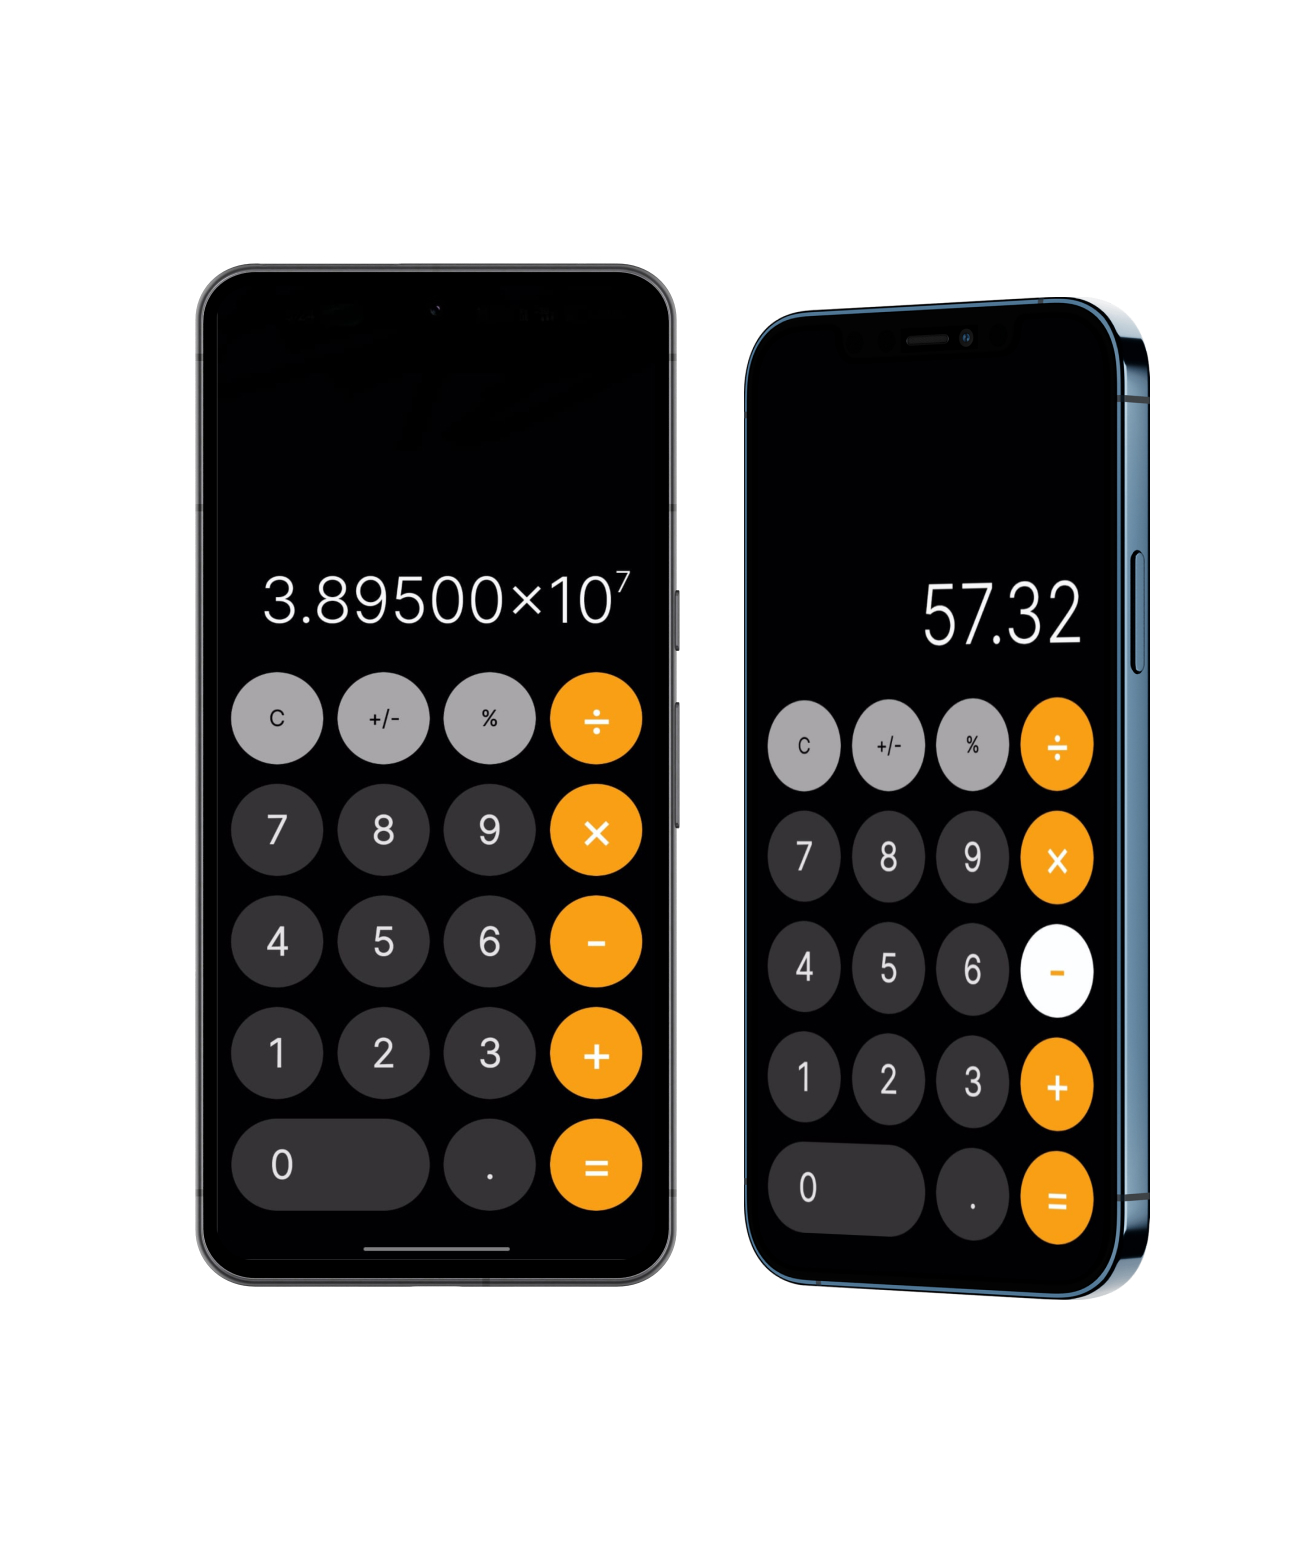
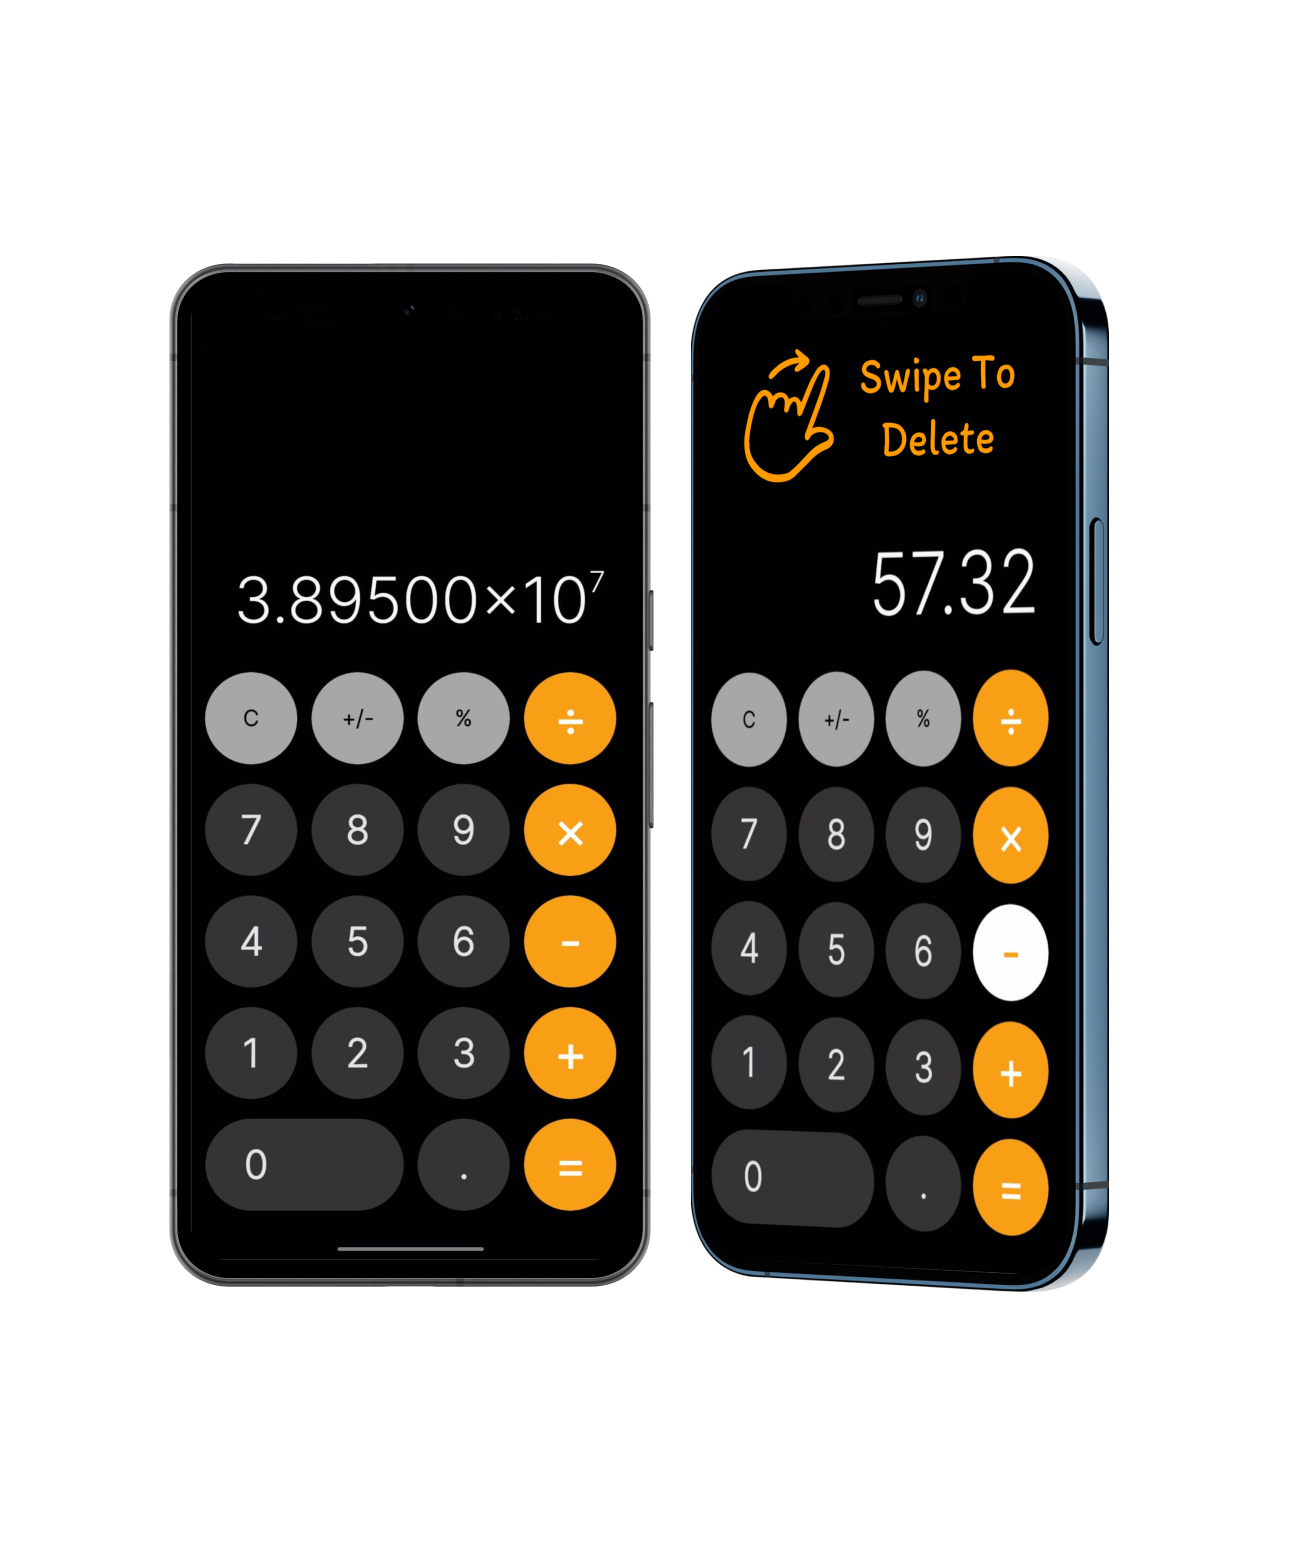
Added functionality to delete by swiping

Changed region(s): [[0.123, 0.1547, 0.8916, 0.8356], [0.2767, 0.7737, 0.3075, 0.8046]]

diff --git a/app/src/main/java/com/piyushjt/icalc/MainActivity.kt b/app/src/main/java/com/piyushjt/icalc/MainActivity.kt
@@ -21,10 +21,15 @@ import androidx.compose.material3.Text
 import androidx.compose.runtime.Composable
 import androidx.compose.runtime.collectAsState
 import androidx.compose.runtime.getValue
+import androidx.compose.runtime.mutableStateOf
+import androidx.compose.runtime.remember
 import androidx.compose.ui.Alignment
 import androidx.compose.ui.Modifier
 import androidx.compose.ui.draw.clip
 import androidx.compose.ui.graphics.Color
+import androidx.compose.ui.input.pointer.PointerEventPass
+import androidx.compose.ui.input.pointer.PointerEventType
+import androidx.compose.ui.input.pointer.pointerInput
 import androidx.compose.ui.platform.LocalConfiguration
 import androidx.compose.ui.text.SpanStyle
 import androidx.compose.ui.text.buildAnnotatedString
@@ -44,6 +49,7 @@ import com.piyushjt.icalc.ui.theme.OrangeBtnColor
 import com.piyushjt.icalc.ui.theme.TextColor
 import com.piyushjt.icalc.ui.theme.TopBtnColor
 import com.piyushjt.icalc.ui.theme.Transparent
+import kotlinx.coroutines.coroutineScope
 
 class MainActivity : ComponentActivity() {
 
@@ -85,7 +91,8 @@ fun VerticalScreen(
         // Value text view
         TextValue(
             text = state.valueToShow,
-            state = state
+            state = state,
+            event = event
         )
 
         // Buttons in grid layout
@@ -98,13 +105,35 @@ fun VerticalScreen(
 @Composable
 fun TextValue(
     text: String,
-    state: State
+    state: State,
+    event: (Event) -> Unit
 ) {
+
+    var isEventTriggered = remember { mutableStateOf(false) }
+
     Box(
         modifier = Modifier
             .fillMaxWidth()
             .background(Background)
-            .padding(horizontal = 20.dp, vertical = 20.dp), contentAlignment = Alignment.BottomEnd
+            .padding(horizontal = 20.dp, vertical = 20.dp).pointerInput(Unit) {
+                coroutineScope {
+                    awaitPointerEventScope {
+                        while (true) {
+                            val event = awaitPointerEvent(PointerEventPass.Initial)
+                            if (event.type == PointerEventType.Move) {
+                                if (!isEventTriggered.value) {
+                                    event(Event.ClearLastChar)
+                                    isEventTriggered.value = true
+                                }
+                            }
+                            if (event.type == PointerEventType.Release) {
+                                isEventTriggered.value = false
+                            }
+                        }
+                    }
+                }
+            },
+        contentAlignment = Alignment.BottomEnd
     ) {
 
         val textToShow = if (text.contains('e')) {
@@ -142,6 +171,7 @@ fun TextValue(
         )
     }
 }
+
 
 
 // Buttons on grid format

diff --git a/app/src/main/java/com/piyushjt/icalc/ViewModel.kt b/app/src/main/java/com/piyushjt/icalc/ViewModel.kt
@@ -37,6 +37,31 @@ class ViewModel : ViewModel() {
                 Log.d("clear Everything", state.value.toString())
             }
 
+            Event.ClearLastChar -> {
+
+                val value = state.value.value
+
+                if((!state.value.isEqualPressed) && state.value.buttonClickedForColor == null){
+
+                    var newValue : String
+
+                    if (value.length < 2){
+                        newValue = "0"
+                    }
+                    else {
+                        newValue = value.substring(0, value.length - 1)
+                    }
+
+                    event(Event.SetValue(newValue))
+
+                    Log.d("clear last char", newValue)
+
+                }
+
+
+                Log.d("clear Everything", state.value.value)
+            }
+
             // Change Sign of value
             Event.ChangeSignOfValue -> {
 
@@ -55,7 +80,7 @@ class ViewModel : ViewModel() {
 
                 event(Event.SetValue(newValue))
 
-                Log.d("Change sign", state.value.toString())
+                Log.d("Change sign", state.value.value)
             }
 
             // Clear Value

diff --git a/app/src/main/java/com/piyushjt/icalc/Event.kt b/app/src/main/java/com/piyushjt/icalc/Event.kt
@@ -10,6 +10,7 @@ sealed interface Event {
     data class SetButtonClickedForColor(val buttonClickedForColor : String?) : Event
     data class SetValueSetAfterOperator(val isSet: Boolean) : Event
     data class SetDotPressed(val isPressed: Boolean) : Event
+    object ClearLastChar : Event
     object ClearValue : Event
     object ChangeSignOfValue : Event
     object ClearPreviousValue : Event

diff --git a/README.md b/README.md
@@ -16,7 +16,7 @@ This is a Calculator for android smartphones which mimics IOS calculator's UI
 
 # Download
 
-[<img src="https://raw.githubusercontent.com/PiyushJT/ICalc/main/for_readme/download_btn.png" alt='Download APK' height="80">](https://piyushjt.github.io/My-Apps/icalc_apks/ICalc_14.apk)
+[<img src="https://raw.githubusercontent.com/PiyushJT/ICalc/main/for_readme/download_btn.png" alt='Download APK' height="80">](https://piyushjt.github.io/My-Apps/icalc_apks/ICalc_15.apk)
 
 
 ## Authors
